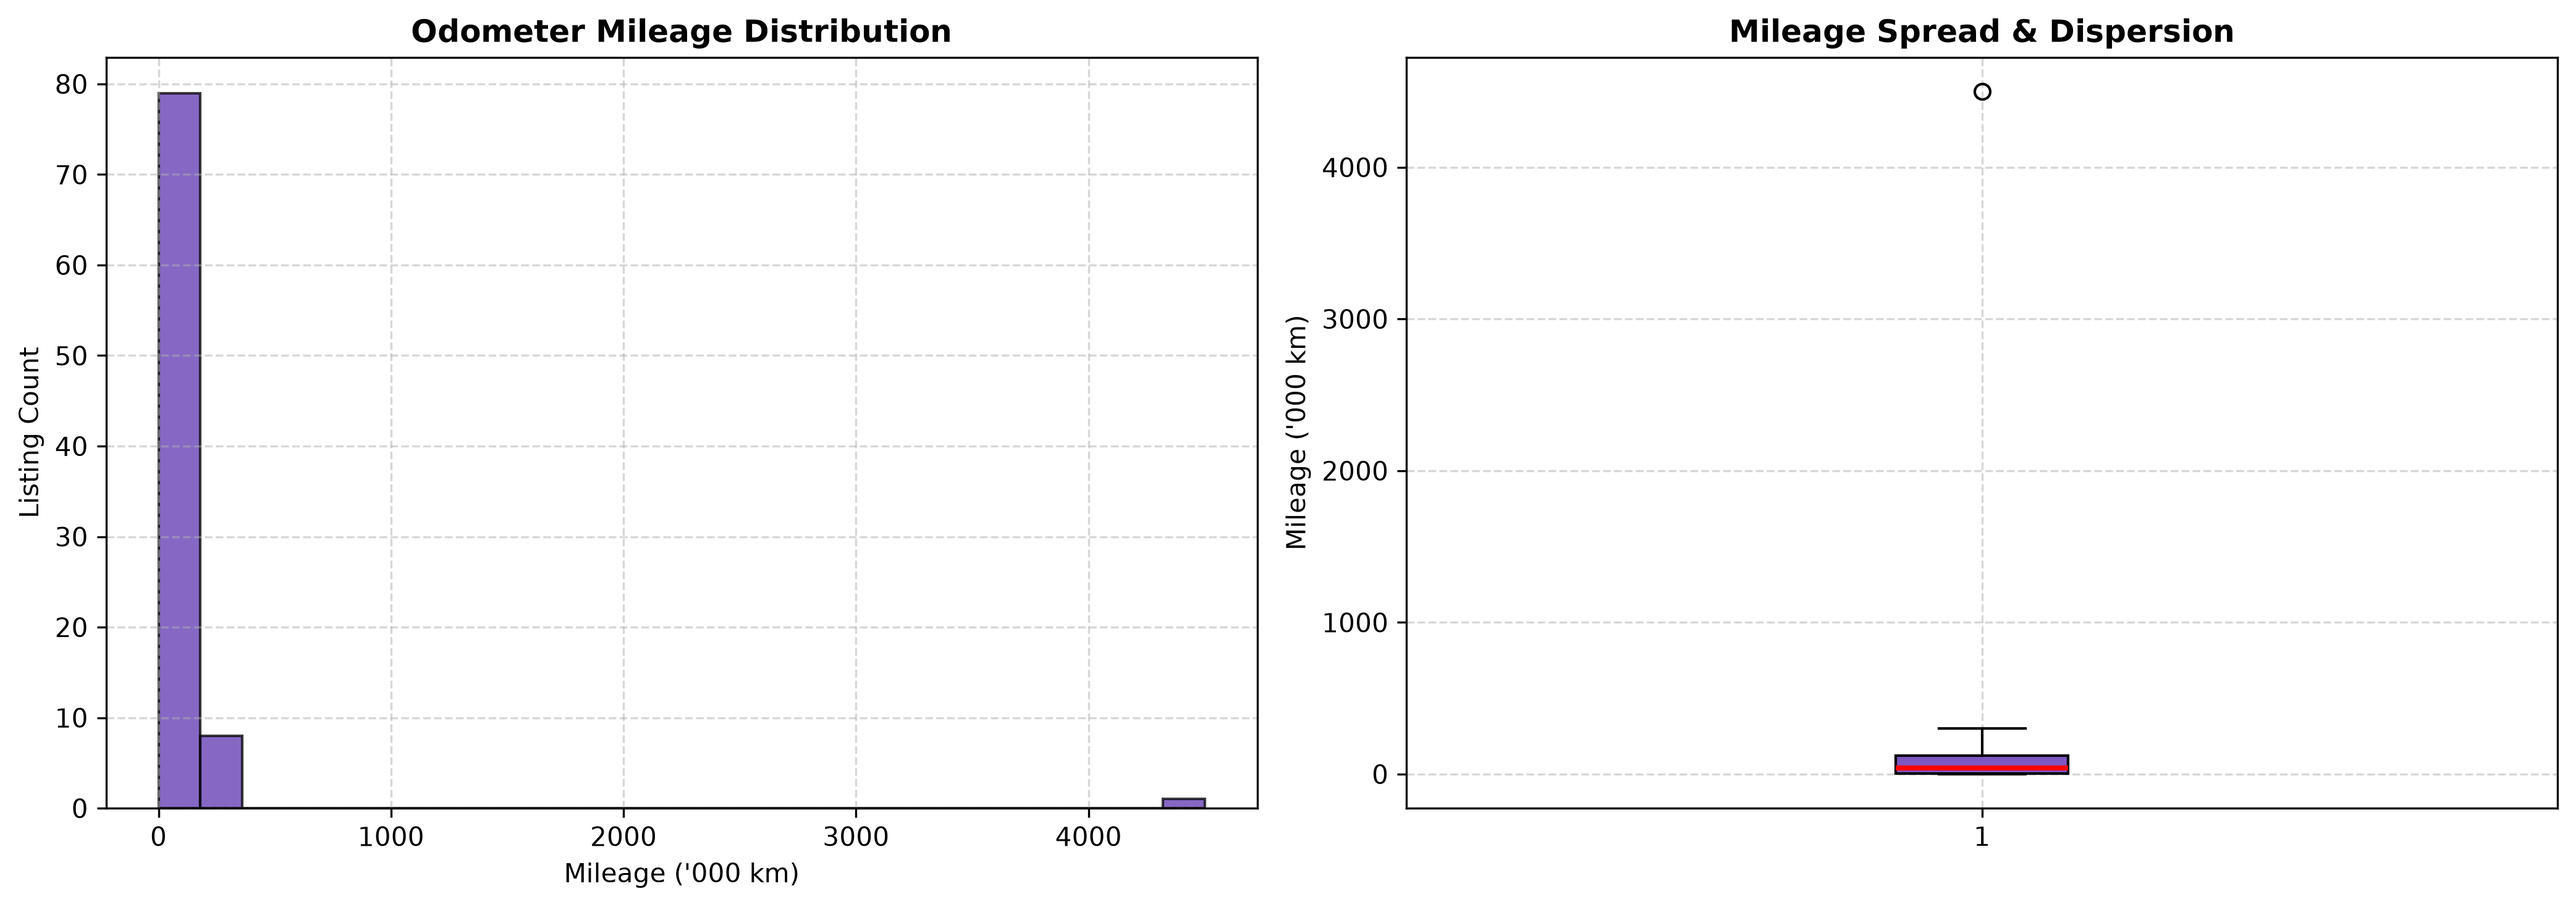
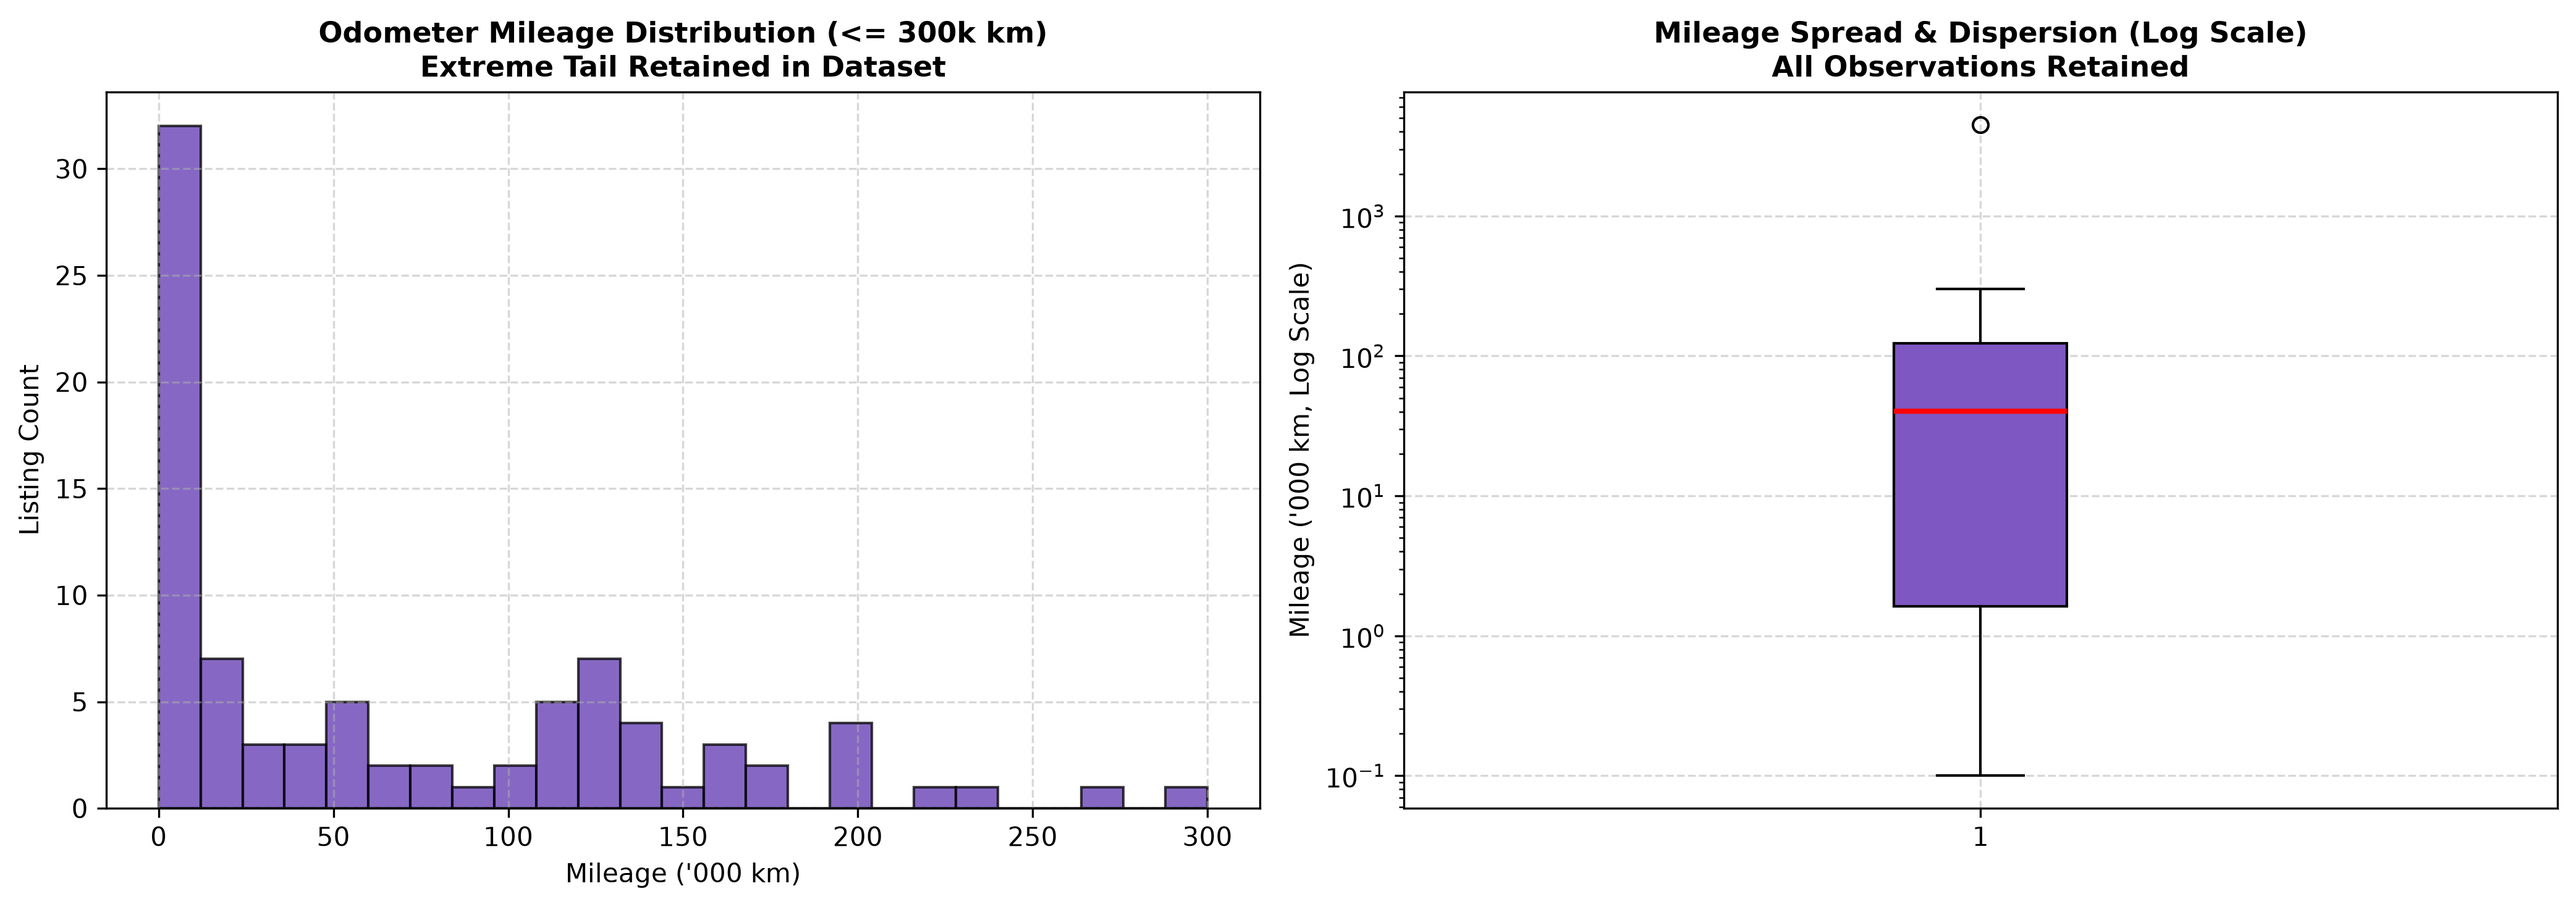
docs(eda): refine market analysis limitations and conclusions
- Regenerate EDA Markdown report with Section 9 'EDA Interpretation & Limitations'
- Update price vs mileage dual-panel, price vs age simple trendline, and mileage distribution figures
- Export updated correlations.json with defensible monotonic association interpretations
- Update README with dual-panel figure descriptions and extreme-value handling documentation

diff --git a/data/analysis/reports/eda_market_report.md b/data/analysis/reports/eda_market_report.md
@@ -1,5 +1,5 @@
 # Sri Lankan Vehicle Market — Exploratory Data Analysis (EDA) Report
-*Generated: 2026-09-14 15:29:59 UTC*
+*Generated: 2026-09-15 15:48:27 UTC*
 
 > [!IMPORTANT]
 > IMPORTANT DISCLAIMER: Listed prices represent seller asking/advertised prices extracted from publicly accessible listings on Riyasewana. They DO NOT represent completed transaction prices or confirmed market sale values. Actual finalized sales may differ due to buyer-seller negotiation.
@@ -9,7 +9,7 @@
 
 ## 1. Executive Summary & Dataset Populations
 
-The platform collects publicly accessible vehicle listings from Riyasewana across 8 vehicle categories.
+The current dataset represents publicly accessible Riyasewana listings collected within the configured collection scope, rather than a full census of the entire Sri Lankan vehicle market.
 The analysis distinguishes three analytical populations:
 1. **Full Dataset**: Complete historical registry of all observed listings and vehicles.
 2. **Quality-Filtered Dataset**: Records evaluated against syntax, bounds, and consistency checks.
@@ -30,6 +30,8 @@ The analysis distinguishes three analytical populations:
 | **Distinct Models** | 69 |
 | **Districts Represented** | 34 |
 
+The asking-price distribution is strongly right-skewed. The mean asking price is substantially higher than the median because a small number of high-priced observations pull the distribution upward. Median asking price is often a more representative measure of central tendency for the current skewed sample. High-priced observations represent genuine market vehicles (such as luxury passenger vehicles and commercial equipment) and are retained in the dataset as authentic market observations rather than deleted.
+
 ---
 ## 2. Vehicle Category Market Profiles
 
@@ -46,10 +48,16 @@ Central tendency and distribution across the 8 canonical vehicle categories:
 | **Three Wheelers** | 10 | 10.6% | 4 (40%) | Rs. 810,000 | Rs. 742,500 | 50,000 km | 2004 |
 | **Vans** | 15 | 16.0% | 9 (60%) | Rs. 4,200,000 | Rs. 4,510,417 | 167,500 km | 2000 |
 
+Vehicle categories operate at substantially different price scales. Category-level comparisons should therefore be interpreted within category context rather than as a single homogeneous market. Observed category extremes represent a combination of genuine market variation (e.g., heavy industrial machinery vs commuter two-wheelers), distinct operational segments, and records subject to data validation.
+
+Observed geographic and operational dimensions across the sample:
+- **Districts**: Colombo has the largest number of observed listings in the current sample. Observed asking-price differences by district should not be interpreted as causal geographic price effects; observed district differences may reflect differences in inventory composition, vehicle categories, brands, models, and sample sizes.
+- **Fuel & Transmission**: Petrol is the most frequently observed fuel type in the current sample, and manual listings are more common than automatic listings. These distributions reflect observed listing composition in the sample rather than an intrinsic price premium caused by fuel or transmission type in isolation.
+
 ---
 ## 3. Brand & Model Market Concentration
 
-Dominant vehicle brands observed in the dataset (configurable threshold: minimum 5 listings for reliable inference):
+Dominant vehicle brands observed in the dataset (minimum sample thresholds: 5 listings for brands, 3 listings for models):
 
 | Brand | Listings | Share (%) | Median Asking Price (Rs.) | Mean Asking Price (Rs.) | Reliability Flag |
 | :--- | :---: | :---: | :---: | :---: | :--- |
@@ -63,6 +71,8 @@ Dominant vehicle brands observed in the dataset (configurable threshold: minimum
 | **Kia** | 3 | 3.2% | Rs. 11,850,000 | Rs. 9,760,000 | Low Sample (<5) |
 | **CAT** | 3 | 3.2% | Rs. 6,200,000 | Rs. 5,866,667 | Low Sample (<5) |
 | **Hyundai** | 3 | 3.2% | Rs. 4,200,000 | Rs. 4,183,333 | Low Sample (<5) |
+
+Where sample sizes fall below minimum reliability thresholds (5 for brands, 3 for models), statistics are flagged as low-sample and should be interpreted with caution. Low-sample records are fully retained in the underlying dataset without exclusion.
 
 ---
 ## 4. Numerical Variables & Five-Number Summaries
@@ -85,19 +95,26 @@ Statistical associations between asking price and key valuation dimensions:
 
 | Relationship Pair | Sample Size | Pearson ($r$) | Spearman ($\rho$) | Association Interpretation |
 | :--- | :---: | :---: | :---: | :--- |
-| **Asking Price vs Odometer Mileage** | 71 | -0.0073 | 0.1107 | Direct relationship |
-| **Asking Price vs Manufacture Year (YOM)** | 75 | 0.1803 | 0.5186 | Direct relationship |
-| **Asking Price vs Vehicle Age** | 75 | -0.1803 | -0.5186 | Inverse relationship |
-| **Asking Price vs Engine Capacity (CC)** | 62 | 0.0924 | 0.5160 | Direct relationship |
+| **Asking Price vs Odometer Mileage** | 71 | -0.0073 | 0.1107 | Weak monotonic association in isolated sample; confounded by age, category, brand |
+| **Asking Price vs Manufacture Year (YOM)** | 75 | 0.1803 | 0.5186 | Moderate direct monotonic association in observed sample |
+| **Asking Price vs Vehicle Age** | 75 | -0.1803 | -0.5186 | Moderate inverse monotonic association in observed sample |
+| **Asking Price vs Engine Capacity (CC)** | 62 | 0.0924 | 0.5160 | Moderate direct monotonic association across mixed categories |
+
+> [!NOTE]
+> **Mathematical Dependency Notice**: Manufacture year and vehicle age are mathematically derived from one another in this dataset (`vehicle_age = current_year - manufacture_year`), producing a perfect inverse correlation (-1.00). This is not an independent market relationship. This identity must be explicitly handled during feature engineering to avoid exact collinearity.
+
+The current sample does not show a strong monotonic association between mileage and asking price when considered in isolation (Pearson $r \approx -0.01$, Spearman $\rho \approx +0.11$). This isolated observation does not imply that mileage has no effect on vehicle price, nor that mileage is useless or should be removed. In a heterogeneous sample, category differences, vehicle age, brand/model prestige, extreme mileage observations, and sample size interact with odometer readings. Feature selection decisions should not be made from bivariate EDA in isolation.
 
 ---
 ## 6. Outlier Analysis & Data Integrity
 
 Detected **13** statistical outliers using IQR and percentile thresholds.
 Outliers are systematically categorized without destructive deletion:
-- **Suspicious Data**: Records containing artificial patterns (e.g. dummy mileage sequences `123456`, implausible prices).
-- **Genuine Market Extremes**: Authentic observations representing luxury exotics, heavy commercial equipment, or vintage collectors.
-- **Insufficient Information**: Incomplete records flagged for exclusion from ML training.
+- **Suspicious Data**: Records containing artificial patterns (e.g. dummy mileage sequences `123456`, implausible prices) as flagged by Step 5 validation rules.
+- **Possible Genuine Market Observations**: Authentic observations representing luxury exotics, heavy commercial equipment, or vintage collectors that naturally sit in market distribution tails.
+- **Insufficient Information**: Incomplete records or boundary anomalies flagged for qualification.
+
+Statistical outliers are not automatically classified as 'bad data'. All records are preserved in the underlying registry to maintain uncompromised data integrity.
 
 ---
 ## 7. Historical Market Dynamics & Timeframe Depth Limits
@@ -106,15 +123,33 @@ Outliers are systematically categorized without destructive deletion:
 - **Historical Depth Status**: Insufficient historical depth for reliable monthly market trend inference.
 - **Price Revision Events**: 0 listings with observed price changes (0 reductions, 0 increases).
 
+No asking-price changes were observed during the current collection window. The approximately two-day observation window is insufficient to infer reliable monthly, seasonal, or long-term market price trends. These data points represent a snapshot of active market listings rather than an established temporal price trend.
+
 > [!WARNING]
 > Insufficient historical depth for reliable monthly market trend inference.
 
 ---
 ## 8. Key Takeaways for Future Valuation Modeling (Phase 5+)
 
-1. **Category Specificity**: Market scales differ drastically between vehicle categories (e.g., motorbikes vs cars vs heavy commercial vehicles). Segmented valuation models or category interaction terms will be essential.
-2. **Non-Linear Age Decay**: Asking price exhibits strong non-linear depreciation curves with vehicle age rather than strict linear decay.
+1. **Category Specificity**: Market scales differ substantially between vehicle categories (e.g., motorbikes vs cars vs heavy commercial vehicles). Segmented valuation models or category interaction terms will be essential.
+2. **Vehicle Age Association**: The observed sample shows a moderate negative monotonic association between vehicle age and asking price. More historical and larger cross-sectional data is required to establish a reliable depreciation pattern. OLS trend lines serve strictly as simple linear trend references rather than true depreciation models.
 3. **Brand Concentration**: Market listings are concentrated in top Japanese and Indian manufacturers (Toyota, Suzuki, Honda, Bajaj).
 4. **Outlier Quarantine**: Step 5 quality filters successfully isolate dummy odometer and price sequences, preventing model distortion while retaining verified observations.
+
+---
+## 9. EDA Interpretation & Limitations
+
+To maintain methodological rigor, subsequent feature engineering (Step 7) and valuation modeling (Phase 5+) must incorporate the following constraints:
+
+1. **Asking Price vs. Transaction Price**: Advertised prices represent seller asking figures on Riyasewana and do not reflect finalized transaction values or negotiated discounts.
+2. **Small Current Sample**: The current dataset contains an initial collection volume (94 listings across 8 categories), meaning parameter estimates are preliminary.
+3. **Short Historical Timeframe**: The active observation window spans approximately two days, preventing longitudinal, seasonal, or macroeconomic price drift inference.
+4. **Category Heterogeneity**: Aggregating diverse categories into unstratified metrics distorts market reality; each canonical category operates on distinct pricing mechanics.
+5. **Outlier Leverage**: Genuine luxury high-value records and extreme mileage entries (e.g. ~4.5M km) exert strong leverage on parametric estimators like mean and standard deviation.
+6. **Low-Sample Strata**: Brands with fewer than 5 listings and models with fewer than 3 listings carry wide estimation uncertainty and cannot support standalone regression weights.
+7. **Correlation Does Not Imply Causation**: Bivariate co-movements (such as district differences or fuel type distributions) reflect sample inventory composition rather than proven causal value drivers.
+8. **Mathematical Identity of YOM and Age**: Manufacture year and vehicle age are collinear identities ($age = current\_year - YOM$), producing a perfect $-1.00$ correlation that must not be entered simultaneously into linear modeling without regularization.
+9. **Observed Public Listings Scope**: The data captures publicly accessible Riyasewana listings within the scraper's collection scope, not a complete census of the national vehicle fleet.
+10. **Absence of Confirmed Sold Prices**: The platform monitors listing lifecycle removals and asking price revisions, but has no visibility into finalized cash settlements.
 
 *Report generated by the Vehicle Market Intelligence Platform EDA subsystem.*

diff --git a/README.md b/README.md
@@ -449,10 +449,10 @@ data/analysis/
 │   ├── correlation_matrix.png              # Spearman rank correlation heatmap
 │   ├── district_distribution.png           # Listing volume by administrative district
 │   ├── fuel_transmission_distribution.png  # Fuel type & transmission distribution bar charts
-│   ├── mileage_distribution.png            # Odometer histogram & dispersion boxplot
+│   ├── mileage_distribution.png            # Operational range histogram & log-scale dispersion boxplot
 │   ├── price_distribution.png              # Linear histogram & log-scale boxplot
-│   ├── price_vs_age.png                    # Scatter plot with OLS trend line
-│   ├── price_vs_mileage.png                # Scatter plot with OLS trend line
+│   ├── price_vs_age.png                    # Scatter plot with simple linear trend reference
+│   ├── price_vs_mileage.png                # Dual-panel scatter (full dataset with extreme tail + analytical operational range)
 │   └── yom_age_distribution.png            # Manufacture year and vehicle age histograms
 ├── tables/
 │   ├── category_summary.csv / .json        # Median/mean price, mileage, YOM across 8 categories
@@ -476,7 +476,8 @@ The EDA pipeline explicitly distinguishes three operational populations:
 - **ML-Eligible Dataset**: Verified listings meeting all critical valuation criteria (valid asking price, mileage, manufacture year, brand, model, and category) suitable for future valuation modeling (63 listings, 67.0% eligibility rate).
 
 #### 4. Sample Size Protections & Historical Depth Limits
-- **Sample Size Safeguards**: Configurable minimum sample thresholds (`MIN_BRAND_SAMPLE = 5`, `MIN_MODEL_SAMPLE = 3`, `MIN_DISTRICT_SAMPLE = 3`) flag low-volume groups as `Low Sample` to prevent misleading rankings.
+- **Sample Size Safeguards**: Configurable minimum sample thresholds (`MIN_BRAND_SAMPLE = 5`, `MIN_MODEL_SAMPLE = 3`, `MIN_DISTRICT_SAMPLE = 3`) flag low-volume groups as `Low Sample` to prevent misleading rankings while retaining records.
+- **Extreme-Value Handling**: Extreme observations (such as 4.5M km mileage or high-value luxury exotics) are fully retained in the underlying registry to maintain uncompromised data integrity. Visualizations provide both full-data and analytical views.
 - **Historical Depth Enforcement**: The system strictly checks the observation time span. Because a multi-day scrape window does not constitute a long-term trend, the historical engine explicitly reports:
   > *"Insufficient historical depth for reliable monthly market trend inference."*
   Fabricated or extrapolated monthly trends are strictly prevented.
